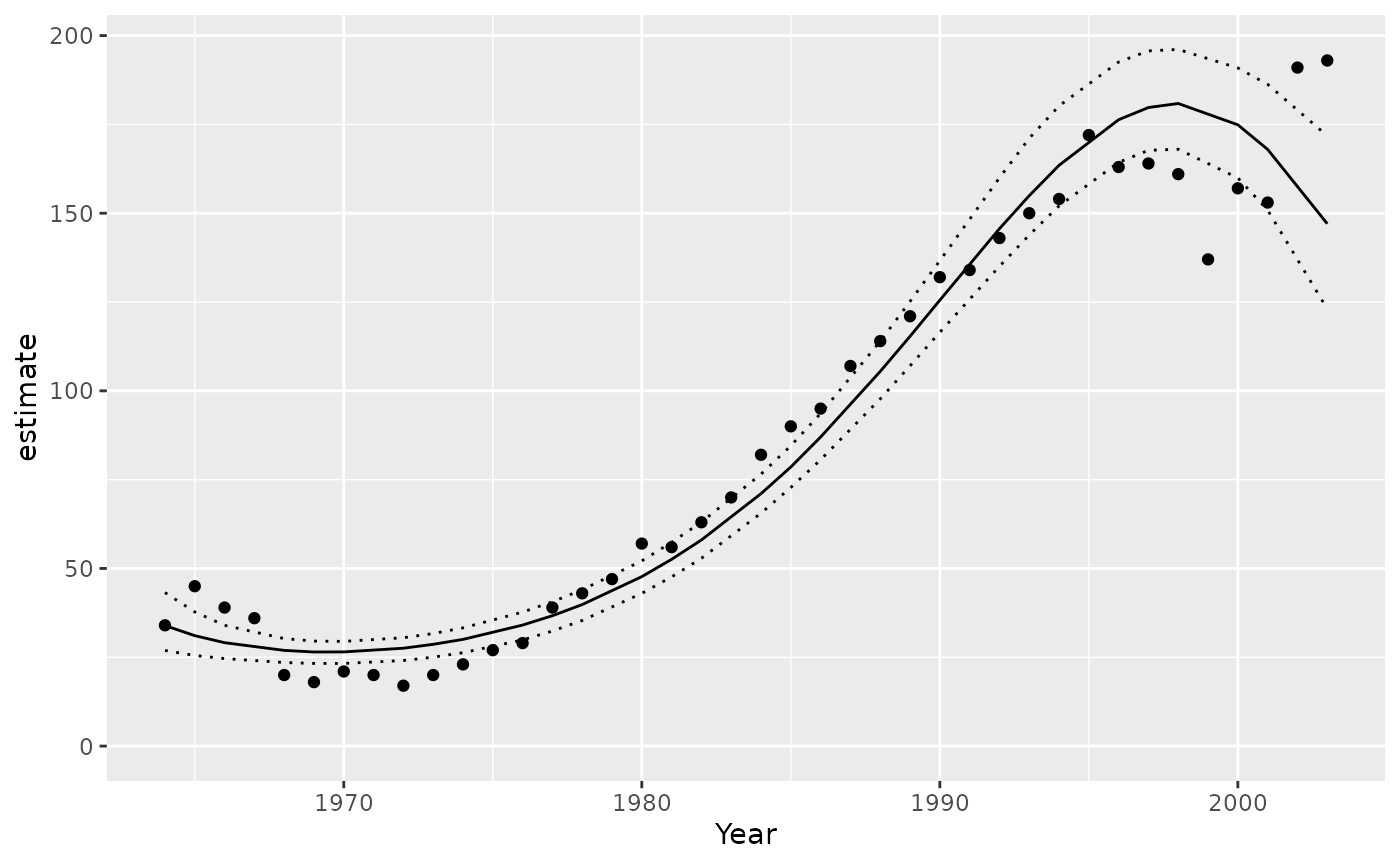
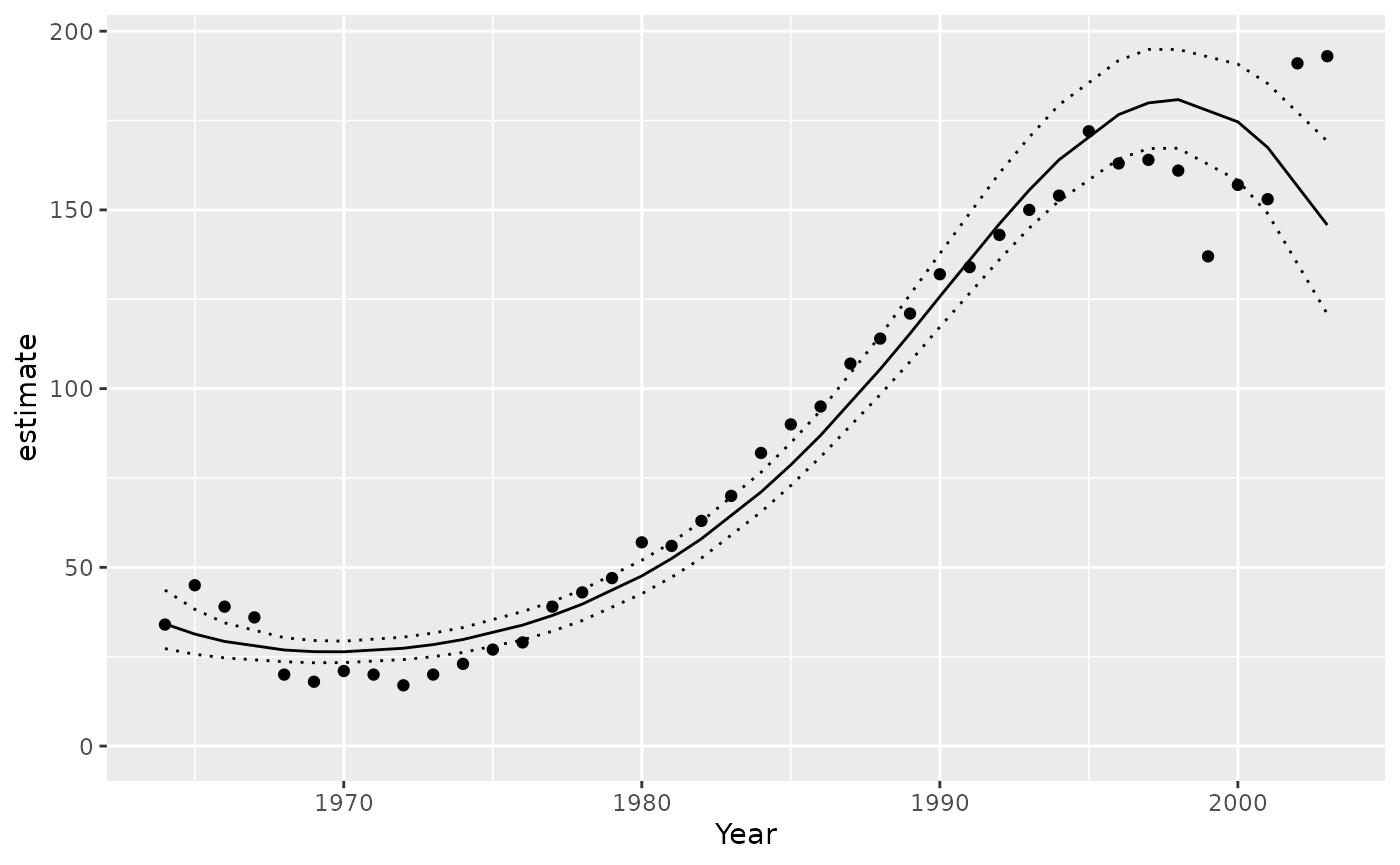
Built site for jmbr@0.0.0.9135: f3b5304

diff --git a/articles/jmbr.html b/articles/jmbr.html
@@ -285,14 +285,14 @@ value and discarding all other values.</p>
 <span><span class="co">#&gt; <span style="color: #949494;"># A tibble: 1 × 8</span></span></span>
 <span><span class="co">#&gt;       n     K nchains niters nthin   ess  rhat converged</span></span>
 <span><span class="co">#&gt;   <span style="color: #949494; font-style: italic;">&lt;int&gt;</span> <span style="color: #949494; font-style: italic;">&lt;int&gt;</span>   <span style="color: #949494; font-style: italic;">&lt;int&gt;</span>  <span style="color: #949494; font-style: italic;">&lt;int&gt;</span> <span style="color: #949494; font-style: italic;">&lt;int&gt;</span> <span style="color: #949494; font-style: italic;">&lt;int&gt;</span> <span style="color: #949494; font-style: italic;">&lt;dbl&gt;</span> <span style="color: #949494; font-style: italic;">&lt;lgl&gt;</span>    </span></span>
-<span><span class="co">#&gt; <span style="color: #BCBCBC;">1</span>    40     6       3    500    10   210  1.01 TRUE</span></span>
+<span><span class="co">#&gt; <span style="color: #BCBCBC;">1</span>    40     6       3    500    10   213  1.01 TRUE</span></span>
 <span><span class="co">#&gt; Warning in value[[3L]](cond): beep() could not play the sound due to the following error:</span></span>
 <span><span class="co">#&gt; Error in play.default(x, rate, ...): no audio drivers are available</span></span>
 <span><span class="va">analysis</span> <span class="op">&lt;-</span> <span class="fu"><a href="https://rdrr.io/pkg/embr/man/reanalyse.html" class="external-link">reanalyse</a></span><span class="op">(</span><span class="va">analysis</span><span class="op">)</span></span>
 <span><span class="co">#&gt; <span style="color: #949494;"># A tibble: 1 × 8</span></span></span>
 <span><span class="co">#&gt;       n     K nchains niters nthin   ess  rhat converged</span></span>
 <span><span class="co">#&gt;   <span style="color: #949494; font-style: italic;">&lt;int&gt;</span> <span style="color: #949494; font-style: italic;">&lt;int&gt;</span>   <span style="color: #949494; font-style: italic;">&lt;int&gt;</span>  <span style="color: #949494; font-style: italic;">&lt;int&gt;</span> <span style="color: #949494; font-style: italic;">&lt;int&gt;</span> <span style="color: #949494; font-style: italic;">&lt;int&gt;</span> <span style="color: #949494; font-style: italic;">&lt;dbl&gt;</span> <span style="color: #949494; font-style: italic;">&lt;lgl&gt;</span>    </span></span>
-<span><span class="co">#&gt; <span style="color: #BCBCBC;">1</span>    40     6       3    500    10   210  1.01 TRUE</span></span>
+<span><span class="co">#&gt; <span style="color: #BCBCBC;">1</span>    40     6       3    500    10   213  1.01 TRUE</span></span>
 <span><span class="co">#&gt; Warning in value[[3L]](cond): beep() could not play the sound due to the following error:</span></span>
 <span><span class="co">#&gt; Error in play.default(x, rate, ...): no audio drivers are available</span></span></code></pre></div>
 <p><strong>Analysis Table:</strong></p>
@@ -342,12 +342,12 @@ between- and within-chain estimates for model parameters.
 <span><span class="co">#&gt; <span style="color: #949494;"># A tibble: 6 × 7</span></span></span>
 <span><span class="co">#&gt;   term        estimate     sd  zscore   lower   upper   pvalue</span></span>
 <span><span class="co">#&gt;   <span style="color: #949494; font-style: italic;">&lt;term&gt;</span>         <span style="color: #949494; font-style: italic;">&lt;dbl&gt;</span>  <span style="color: #949494; font-style: italic;">&lt;dbl&gt;</span>   <span style="color: #949494; font-style: italic;">&lt;dbl&gt;</span>   <span style="color: #949494; font-style: italic;">&lt;dbl&gt;</span>   <span style="color: #949494; font-style: italic;">&lt;dbl&gt;</span>    <span style="color: #949494; font-style: italic;">&lt;dbl&gt;</span></span></span>
-<span><span class="co">#&gt; <span style="color: #BCBCBC;">1</span> alpha         4.26   0.039<span style="text-decoration: underline;">3</span> 108.     4.18    4.34   0.000<span style="text-decoration: underline;">666</span></span></span>
-<span><span class="co">#&gt; <span style="color: #BCBCBC;">2</span> beta1         1.18   0.077<span style="text-decoration: underline;">3</span>  15.4    1.06    1.37   0.000<span style="text-decoration: underline;">666</span></span></span>
-<span><span class="co">#&gt; <span style="color: #BCBCBC;">3</span> beta2        -<span style="color: #BB0000;">0.019</span><span style="color: #BB0000; text-decoration: underline;">1</span> 0.030<span style="text-decoration: underline;">6</span>  -<span style="color: #BB0000;">0.622</span> -<span style="color: #BB0000;">0.079</span><span style="color: #BB0000; text-decoration: underline;">7</span>  0.041<span style="text-decoration: underline;">3</span> 0.526   </span></span>
-<span><span class="co">#&gt; <span style="color: #BCBCBC;">4</span> beta3        -<span style="color: #BB0000;">0.267</span>  0.039<span style="text-decoration: underline;">3</span>  -<span style="color: #BB0000;">6.91</span>  -<span style="color: #BB0000;">0.358</span>  -<span style="color: #BB0000;">0.205</span>  0.000<span style="text-decoration: underline;">666</span></span></span>
-<span><span class="co">#&gt; <span style="color: #BCBCBC;">5</span> log_sAnnual  -<span style="color: #BB0000;">2.22</span>   0.325   -<span style="color: #BB0000;">6.96</span>  -<span style="color: #BB0000;">3.05</span>   -<span style="color: #BB0000;">1.74</span>   0.000<span style="text-decoration: underline;">666</span></span></span>
-<span><span class="co">#&gt; <span style="color: #BCBCBC;">6</span> sAnnual       0.108  0.032<span style="text-decoration: underline;">2</span>   3.38   0.047<span style="text-decoration: underline;">2</span>  0.176  0.000<span style="text-decoration: underline;">666</span></span></span></code></pre></div>
+<span><span class="co">#&gt; <span style="color: #BCBCBC;">1</span> alpha         4.26   0.040<span style="text-decoration: underline;">1</span> 106.     4.18    4.34   0.000<span style="text-decoration: underline;">666</span></span></span>
+<span><span class="co">#&gt; <span style="color: #BCBCBC;">2</span> beta1         1.20   0.075<span style="text-decoration: underline;">8</span>  15.9    1.07    1.36   0.000<span style="text-decoration: underline;">666</span></span></span>
+<span><span class="co">#&gt; <span style="color: #BCBCBC;">3</span> beta2        -<span style="color: #BB0000;">0.018</span><span style="color: #BB0000; text-decoration: underline;">9</span> 0.030<span style="text-decoration: underline;">0</span>  -<span style="color: #BB0000;">0.637</span> -<span style="color: #BB0000;">0.077</span><span style="color: #BB0000; text-decoration: underline;">6</span>  0.041<span style="text-decoration: underline;">4</span> 0.492   </span></span>
+<span><span class="co">#&gt; <span style="color: #BCBCBC;">4</span> beta3        -<span style="color: #BB0000;">0.274</span>  0.039<span style="text-decoration: underline;">2</span>  -<span style="color: #BB0000;">7.08</span>  -<span style="color: #BB0000;">0.361</span>  -<span style="color: #BB0000;">0.211</span>  0.000<span style="text-decoration: underline;">666</span></span></span>
+<span><span class="co">#&gt; <span style="color: #BCBCBC;">5</span> log_sAnnual  -<span style="color: #BB0000;">2.21</span>   0.308   -<span style="color: #BB0000;">7.27</span>  -<span style="color: #BB0000;">2.90</span>   -<span style="color: #BB0000;">1.74</span>   0.000<span style="text-decoration: underline;">666</span></span></span>
+<span><span class="co">#&gt; <span style="color: #BCBCBC;">6</span> sAnnual       0.110  0.031<span style="text-decoration: underline;">5</span>   3.53   0.055<span style="text-decoration: underline;">0</span>  0.175  0.000<span style="text-decoration: underline;">666</span></span></span></code></pre></div>
 <p>The estimate is the <strong>median</strong> by default.</p>
 <p>The zscore is <span class="math inline">mean / sd</span>.</p>
 <div class="sourceCode" id="cb12"><pre class="downlit sourceCode r">
@@ -355,12 +355,12 @@ between- and within-chain estimates for model parameters.
 <span><span class="co">#&gt; <span style="color: #949494;"># A tibble: 6 × 5</span></span></span>
 <span><span class="co">#&gt;   term        estimate   lower   upper svalue</span></span>
 <span><span class="co">#&gt;   <span style="color: #949494; font-style: italic;">&lt;term&gt;</span>         <span style="color: #949494; font-style: italic;">&lt;dbl&gt;</span>   <span style="color: #949494; font-style: italic;">&lt;dbl&gt;</span>   <span style="color: #949494; font-style: italic;">&lt;dbl&gt;</span>  <span style="color: #949494; font-style: italic;">&lt;dbl&gt;</span></span></span>
-<span><span class="co">#&gt; <span style="color: #BCBCBC;">1</span> alpha         4.26    4.18    4.34   10.6  </span></span>
-<span><span class="co">#&gt; <span style="color: #BCBCBC;">2</span> beta1         1.18    1.06    1.37   10.6  </span></span>
-<span><span class="co">#&gt; <span style="color: #BCBCBC;">3</span> beta2        -<span style="color: #BB0000;">0.019</span><span style="color: #BB0000; text-decoration: underline;">1</span> -<span style="color: #BB0000;">0.079</span><span style="color: #BB0000; text-decoration: underline;">7</span>  0.041<span style="text-decoration: underline;">3</span>  0.928</span></span>
-<span><span class="co">#&gt; <span style="color: #BCBCBC;">4</span> beta3        -<span style="color: #BB0000;">0.267</span>  -<span style="color: #BB0000;">0.358</span>  -<span style="color: #BB0000;">0.205</span>  10.6  </span></span>
-<span><span class="co">#&gt; <span style="color: #BCBCBC;">5</span> log_sAnnual  -<span style="color: #BB0000;">2.22</span>   -<span style="color: #BB0000;">3.05</span>   -<span style="color: #BB0000;">1.74</span>   10.6  </span></span>
-<span><span class="co">#&gt; <span style="color: #BCBCBC;">6</span> sAnnual       0.108   0.047<span style="text-decoration: underline;">2</span>  0.176  10.6</span></span></code></pre></div>
+<span><span class="co">#&gt; <span style="color: #BCBCBC;">1</span> alpha         4.26    4.18    4.34    10.6 </span></span>
+<span><span class="co">#&gt; <span style="color: #BCBCBC;">2</span> beta1         1.20    1.07    1.36    10.6 </span></span>
+<span><span class="co">#&gt; <span style="color: #BCBCBC;">3</span> beta2        -<span style="color: #BB0000;">0.018</span><span style="color: #BB0000; text-decoration: underline;">9</span> -<span style="color: #BB0000;">0.077</span><span style="color: #BB0000; text-decoration: underline;">6</span>  0.041<span style="text-decoration: underline;">4</span>   1.02</span></span>
+<span><span class="co">#&gt; <span style="color: #BCBCBC;">4</span> beta3        -<span style="color: #BB0000;">0.274</span>  -<span style="color: #BB0000;">0.361</span>  -<span style="color: #BB0000;">0.211</span>   10.6 </span></span>
+<span><span class="co">#&gt; <span style="color: #BCBCBC;">5</span> log_sAnnual  -<span style="color: #BB0000;">2.21</span>   -<span style="color: #BB0000;">2.90</span>   -<span style="color: #BB0000;">1.74</span>    10.6 </span></span>
+<span><span class="co">#&gt; <span style="color: #BCBCBC;">6</span> sAnnual       0.110   0.055<span style="text-decoration: underline;">0</span>  0.175   10.6</span></span></code></pre></div>
 <p>The s-value is the <strong>suprisal</strong> value, which is a
 measure of directionality with respect to zero.</p>
 <p>The s-value is zero (unsurprising) when <em>p-value</em> = 1.0 and
